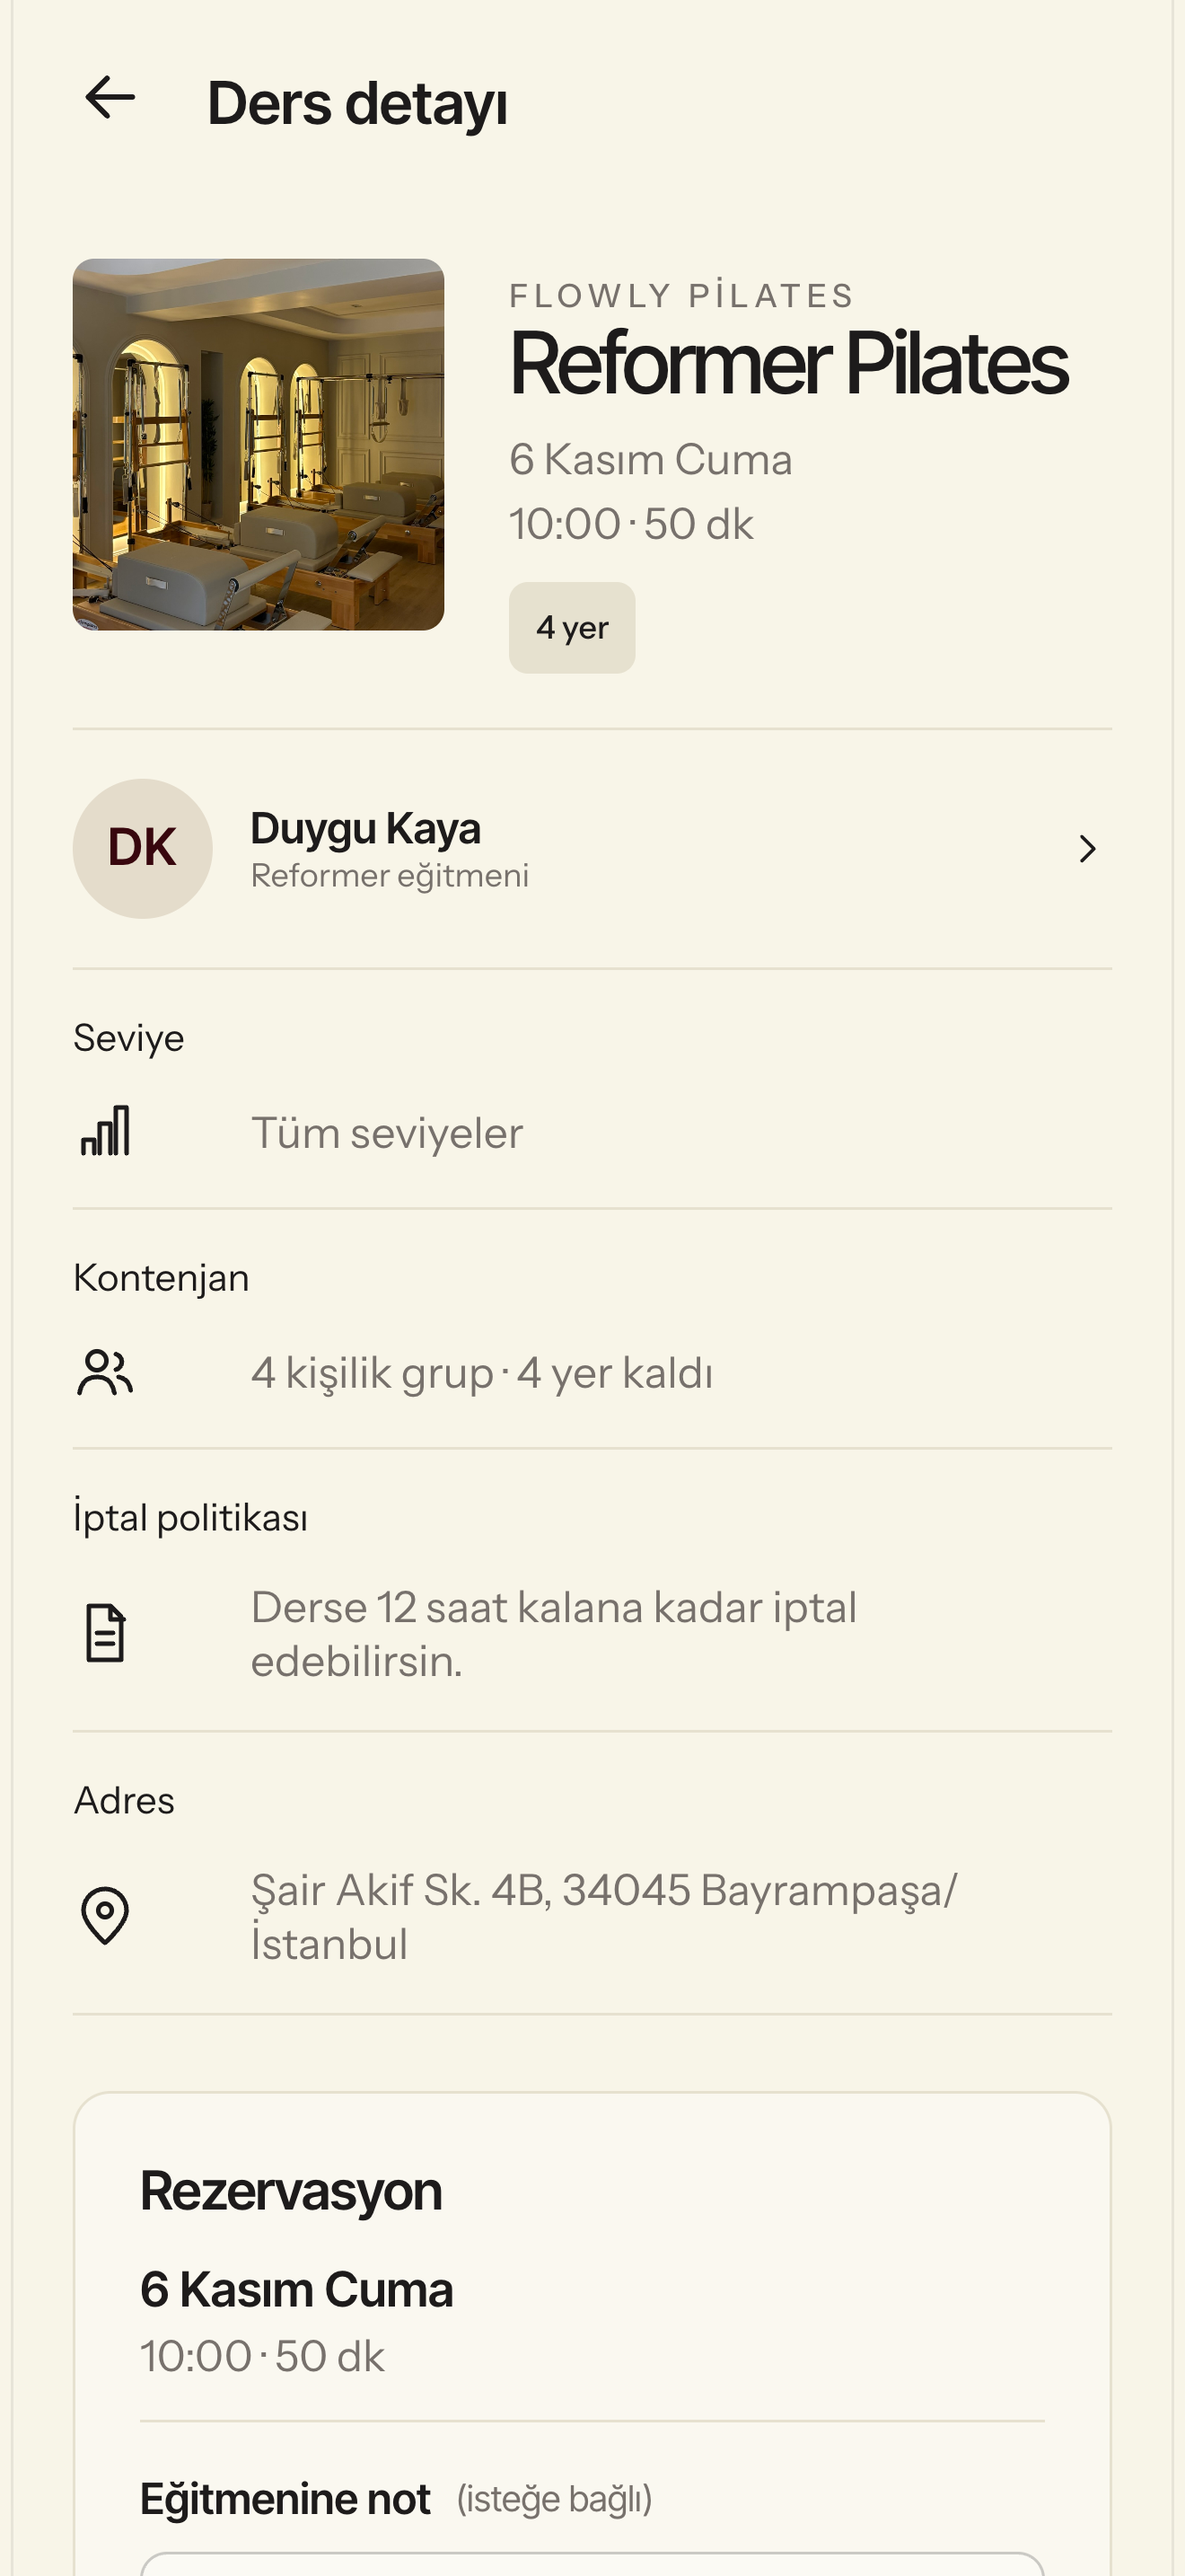
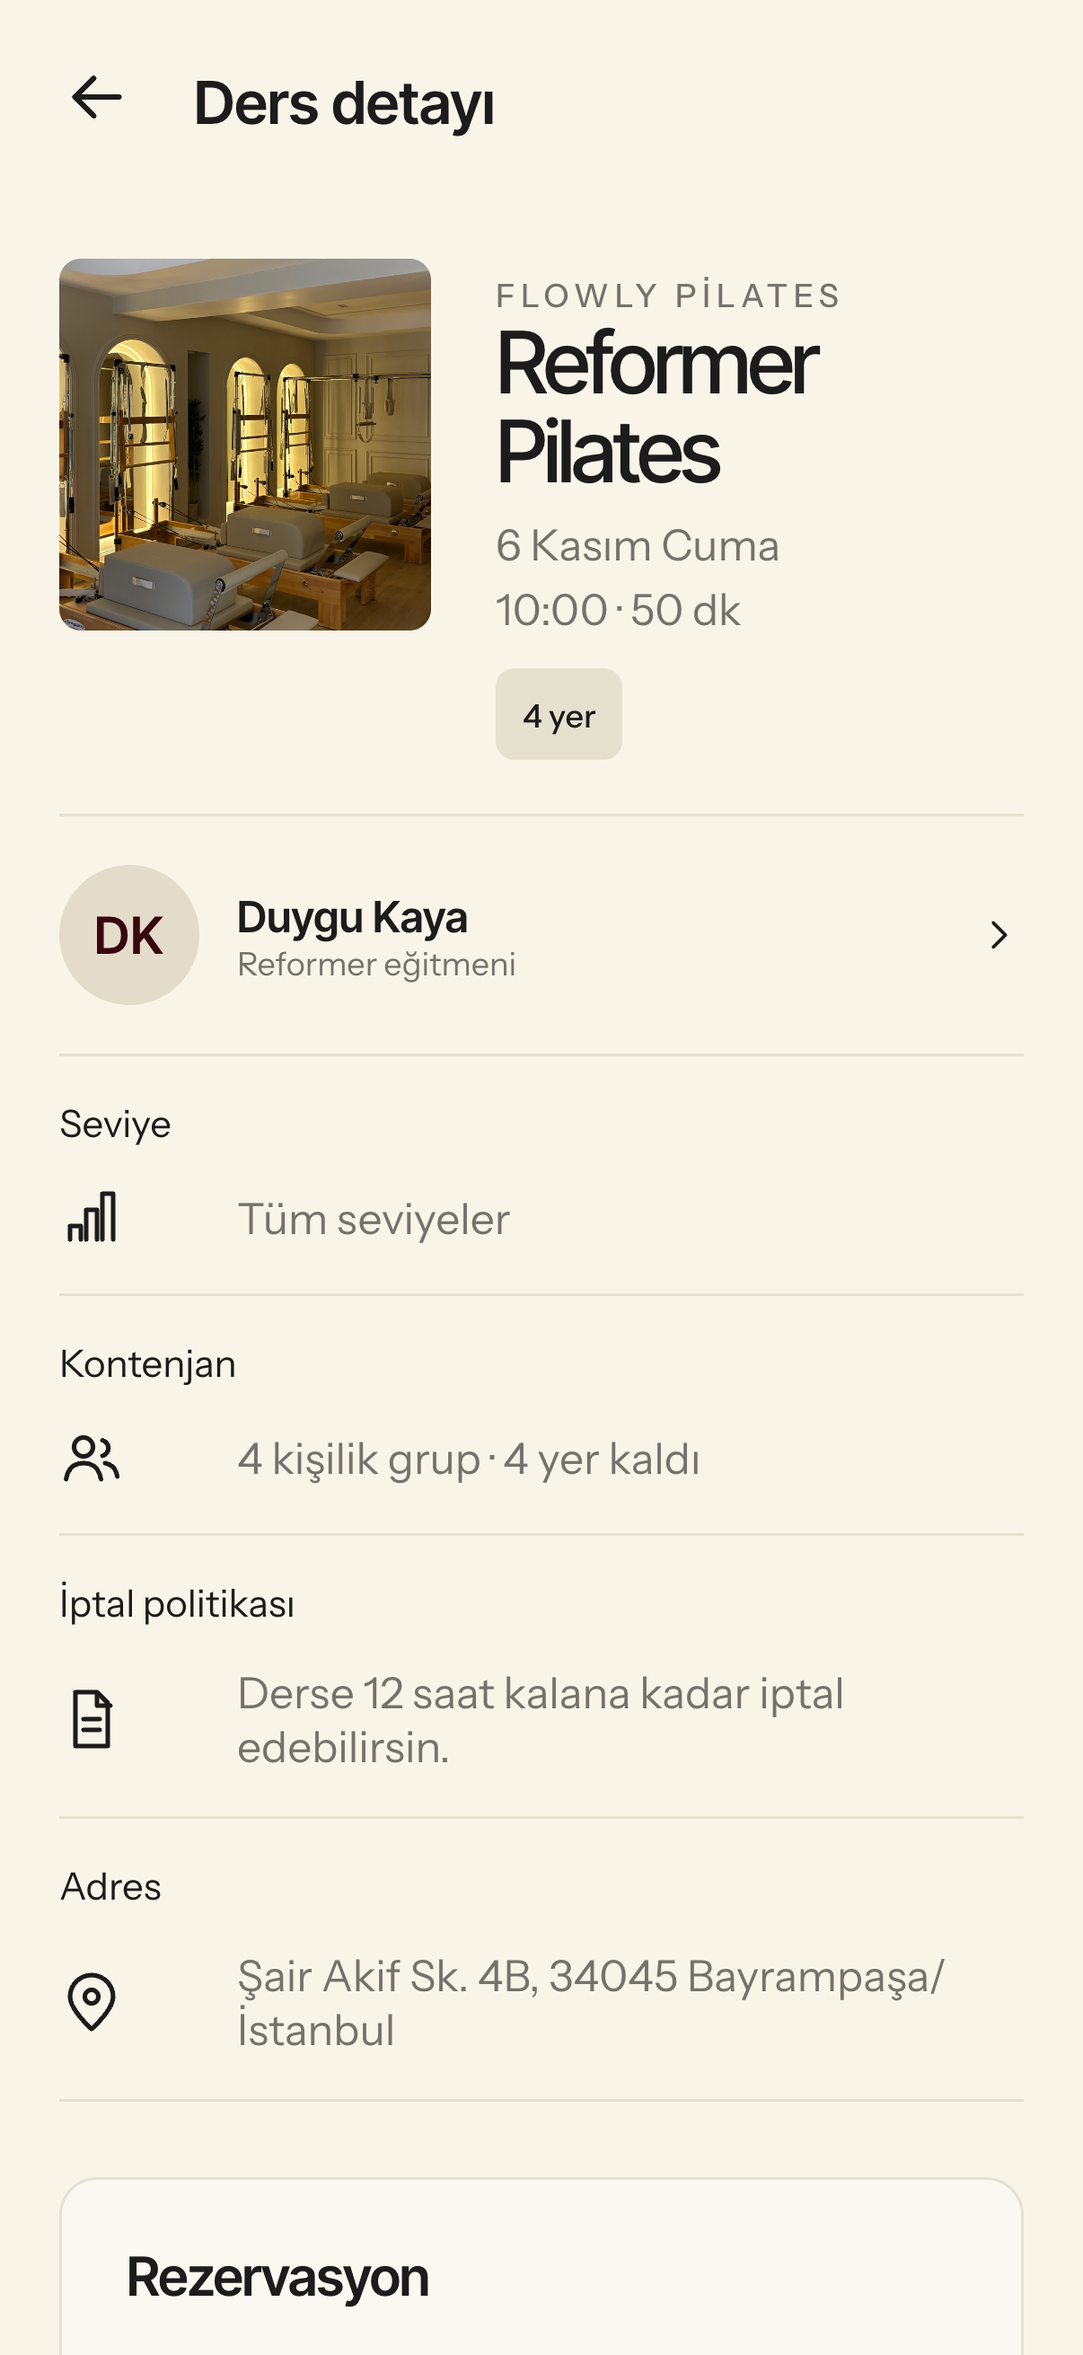
docs: screenshots at 1206×2622, the size App Store Connect asks for

diff --git a/docs/app-store.md b/docs/app-store.md
@@ -93,7 +93,7 @@ Demo hesapları, dersleri ve örnek talepleri `scripts/review-demo.ts` hazırlar
 - [ ] Demo eğitmen önümüzdeki 4 hafta için hafta içi her gün en az iki ders açtı ("Her hafta tekrarla"); inceleme uzarsa ya da ret sonrası yeniden gönderilirse de ders olur.
 - [ ] Demo üyenin en az bir onaylı ve bir onay bekleyen rezervasyonu var; Rezervasyonlarım ve Talepler boş görünmüyor.
 - [ ] Apple inceleme sırasında demo hesabı silebilir; inceleme sonrası hesap gerekiyorsa yeniden açılır.
-- [x] Ekran görüntüleri 6,9 inç (1320 × 2868) boyutunda `docs/ekran-goruntuleri/` klasöründe (karşılama, ders programı, ders detayı, rezervasyonlarım, sabit saatler, stüdyo, eğitmen özeti, talepler). İçerik demo hesaplardan; gerçek üye bilgisi görünmez.
+- [x] Ekran görüntüleri App Store Connect'in istediği 6,3 inç (1206 × 2622) boyutunda `docs/ekran-goruntuleri/` klasöründe (karşılama, ders programı, ders detayı, rezervasyonlarım, sabit saatler, stüdyo, eğitmen özeti, talepler). İçerik demo hesaplardan; gerçek üye bilgisi görünmez.
 - [ ] TestFlight'ta gerçek bir iPhone'da denendi: giriş, talep, takvime ekleme, iptal, sabit saat, hesabı silme (atılabilir bir hesapla).
 - [ ] Telefon bildirimi gerçek iPhone'da geldi: Ayarlar › Bildirimler › "Bildirimleri Aç", sonra bir talep onaylandı ve bildirim düştü.
 - [ ] App Store Connect'te gizlilik formu bu dosyadaki tabloyla aynı; gizlilik ve destek adresleri açılıyor.
